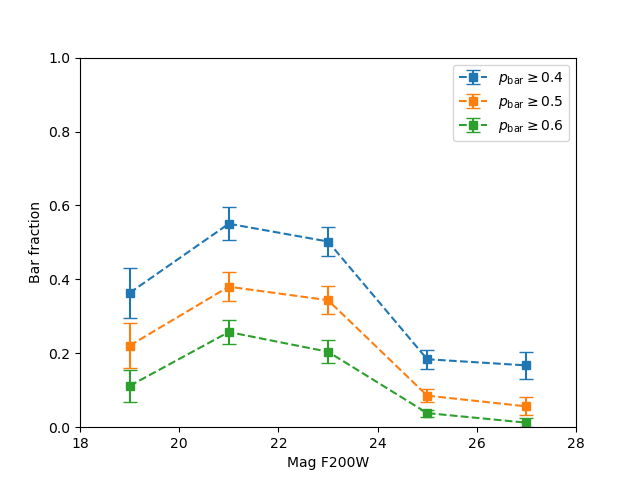
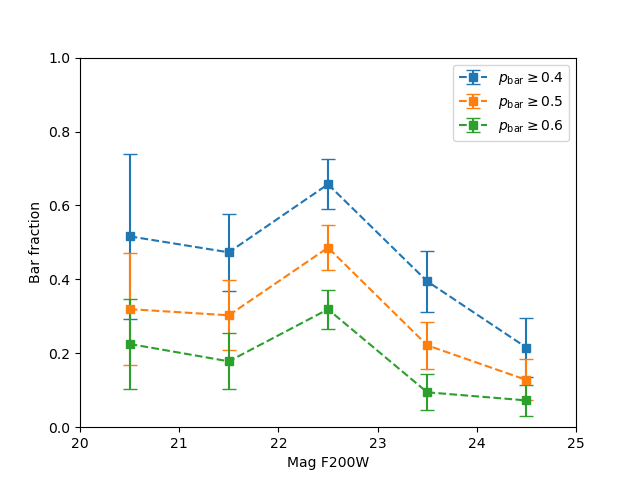
update

diff --git a/bar_estimate/calibrate_bar_fraction.py b/bar_estimate/calibrate_bar_fraction.py
@@ -126,11 +126,13 @@ plt.savefig(f'bar_estimate/f_bar_M_all_filters.png')
 
 
 N_BINS_mag = 5
-bins_mag = [18, 20, 22, 24, 26, 28]
+bins_mag = [20, 21, 22, 23, 24, 25]
 
 
 result = pd.read_csv(f"bar_estimate/F200W_sampling.csv")
-result = result[result['zfit_50'] <= 1.]
+result = result[(result['zfit_50'] <= 1.) & (result['logM_50'] > 9.) & (result['logM_50'] < 10.)]
+# result = result[(result['zfit_50'] <= 1.) & (result['logM_50'] > 10.) & (result['logM_50'] < 11.)]
+
 
 feature_count = result['feature_count'].values
 edgeon_count = result['edgeon_count'].values
@@ -159,14 +161,14 @@ for k in range(3):
                 bar = str2array(bar_count[i])
 
                 # is_disk = (feature >= 0.3*N_VOLS) & (edgeon <= 0.5*feature) & (q[i] >= 0.5)
-                is_disk = (feature >= 0.3*N_VOLS) & (feature-edgeon >= 15) & (q[i] >= 0.5)
+                is_disk = (feature >= 0.3*N_VOLS) & (feature-edgeon >= 10) & (q[i] >= 0.5)
                 num_disks[k,j,:] += is_disk.astype(int)
 
                 is_barred_disk = is_disk & (bar >= bar_thresholds[k]*(feature-edgeon))
                 num_barred_disks[k,j,:] += is_barred_disk.astype(int)
             
                 break
-
+print(num_disks, flush=True)
 bar_fraction = num_barred_disks / num_disks
 err = np.sqrt(np.sum(bar_fraction*(1-bar_fraction)/num_disks, axis=2)/N_RUNS**2 + np.var(bar_fraction, axis=2))
 
